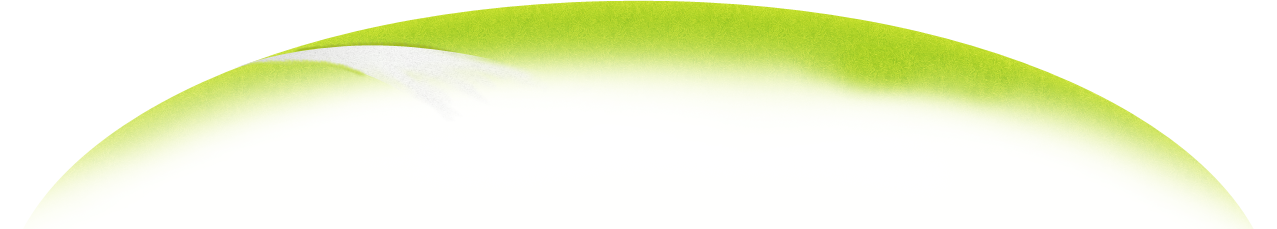
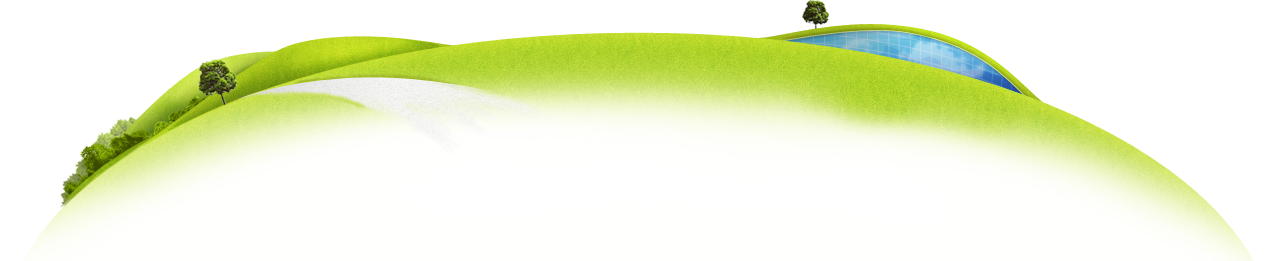
Reduce image sizes by combining some layers.

Changed region(s): [[0.0305, 0.0, 0.9468, 0.8253], [0.9468, 0.7642, 0.9773, 0.8559]]

diff --git a/app/assets/stylesheets/scenes/_modern.sass b/app/assets/stylesheets/scenes/_modern.sass
@@ -201,7 +201,7 @@
       // The main ground layer - contains the green "globe".
 
       .ground
-        background: image-url("scenes/modern/header/ground.png") center 87px no-repeat
+        background: image-url("scenes/modern/header/ground.png") center 55px no-repeat
         height: 318px
         position: relative
         width: 1277px
@@ -229,21 +229,14 @@
           // Move the large city further down.
           background-position: -15px -335px
 
-      // Hills on the left of the ground; currently combines the hills with
-      // the trees.
-
-      .left-hills
-        @include modern-prop(left-hills, 412px, 172px, 60px, 91px)
-        z-index: 5
-
       // "Eco" buildings, with big glass fronts.
 
       .eco-buildings
-        @include modern-prop-dyn(eco-buildings, 643px, 162px, 435px, 18px)
+        @include modern-prop-dyn(eco-buildings, 380px, 87px, 435px, 18px)
         z-index: 4
 
         .icon.coal
-          background-position: -643px top
+          background-position: -380px top
 
       // Solar panels; appear to the right of the eco-buildings.
 
